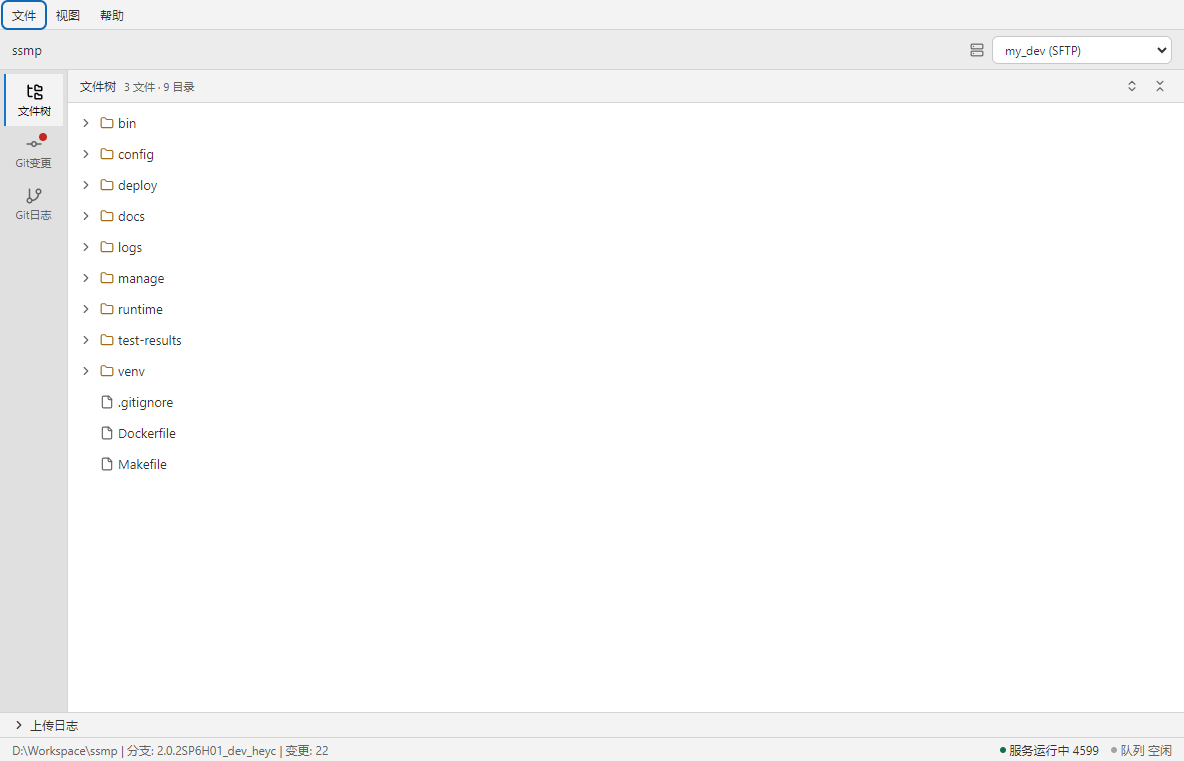
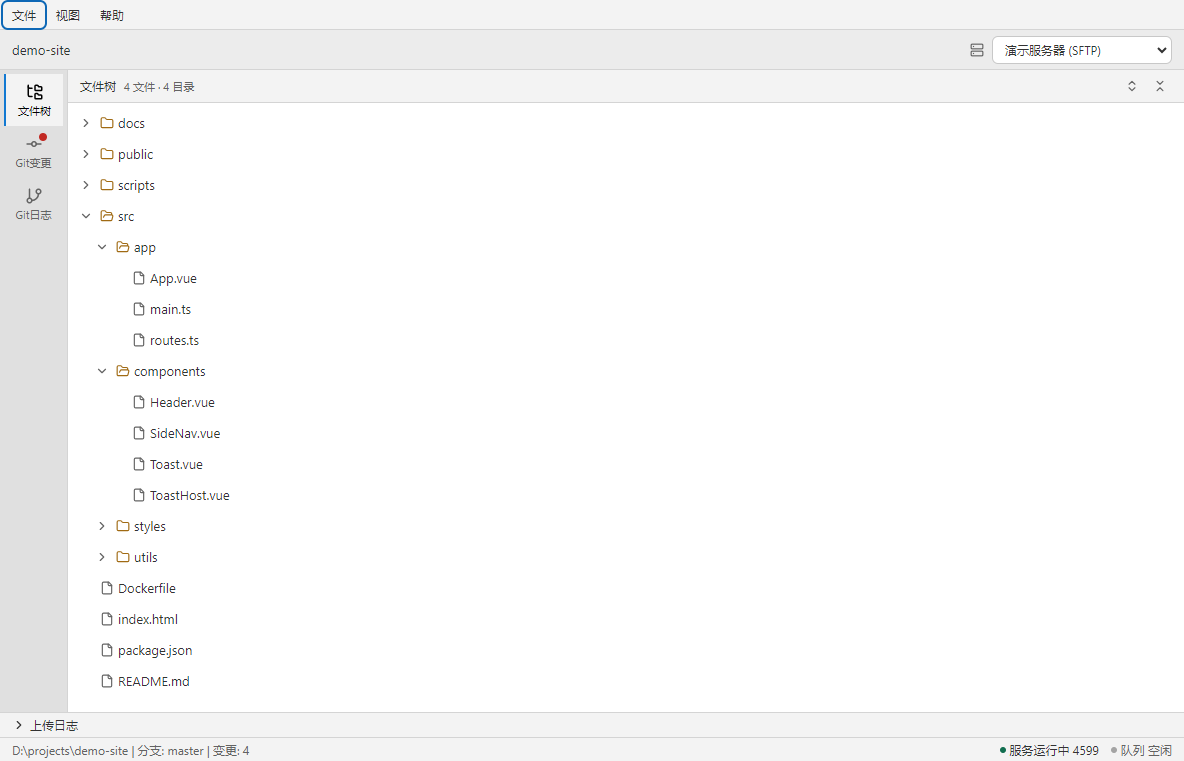
docs(screenshots): 用中性示例项目重出发布截图
- 截图改用 demo-site 示例工程（不含公司/内部路径），文件树展开到 src 两层、变更树全展开、日志展开最新提交
- 变更树文件行缩进 22 → 24，回到 4/8 网格
- ui-audit 增加三个「发布截图」步骤（定向展开 + 清空选区），便于后续一键重出

diff --git a/src/renderer/components/git/GitChangeTreeNode.vue b/src/renderer/components/git/GitChangeTreeNode.vue
@@ -213,7 +213,7 @@ function dirStatsTitle(n: ChangeTreeNode): string {
     :data-path="node.path"
     :data-depth="depth"
     :selected="(selectedPaths ?? []).includes(node.path)"
-    :indent="depth * 16 + 22"
+    :indent="depth * 16 + 24"
     role="button"
     :tabindex="-1"
     @click="onRowClick"
